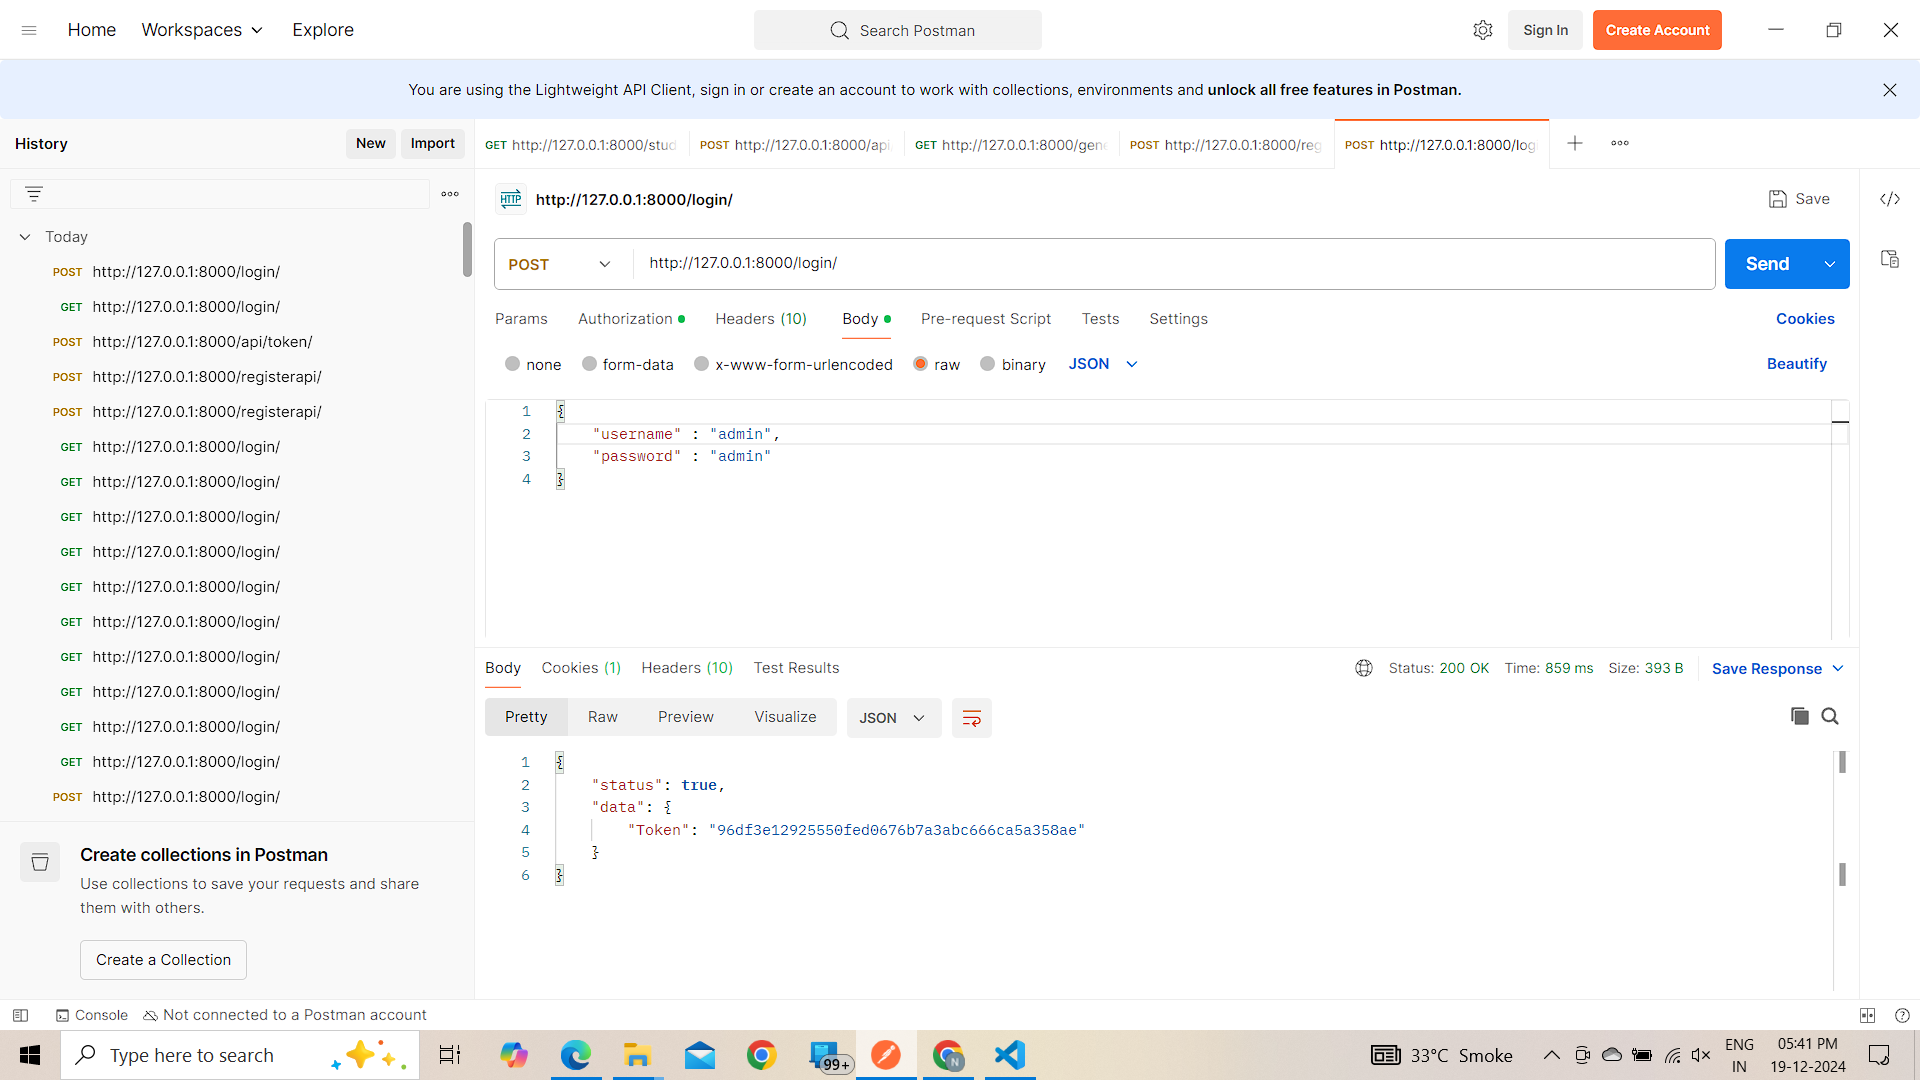
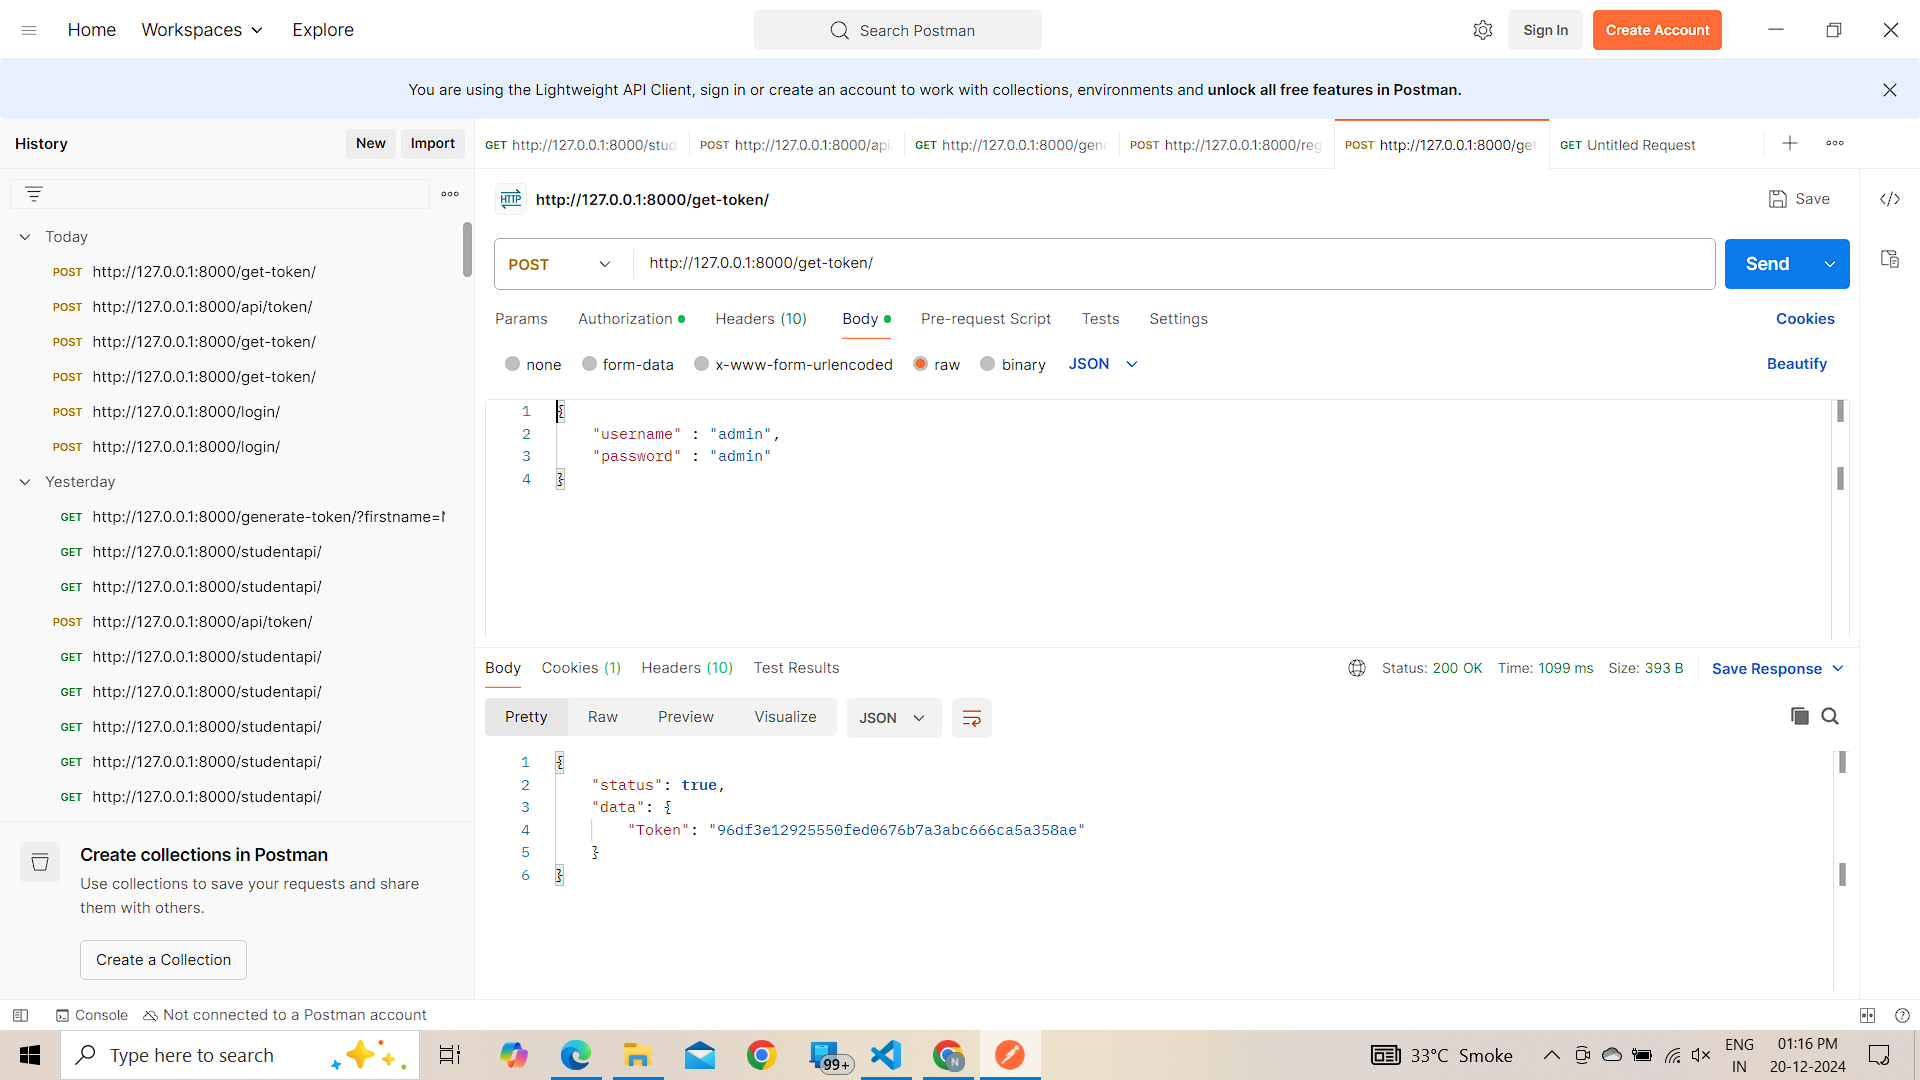
made changes

diff --git a/School/views.py b/School/views.py
@@ -59,42 +59,6 @@ def registration(request):
     
     return render(request,'school/register.html',{'form':form})
 
-#User Registration Using API Call (Postman)
-class RegisterView(APIView):
-    def post(self, request):
-        data = request.data
-        serializer = RegisterSerializer(data=data)
-        
-        if serializer.is_valid():
-            
-            username = serializer.data.get('username',False)
-            password = serializer.data.get('password',False)
-            confirm_password = serializer.data.get('confirm_password',False)
-
-            user = authenticate(username=username, password = password)
-            if user:
-                return Response({
-                    "status" : True,
-                    "message" : "Username already exist please login or enter different username",
-                    "data" : {} 
-                })
-
-            if password == confirm_password:
-                user = User.objects.create_user(username = username, password = password)
-                user.save()
-
-                refresh = RefreshToken.for_user(user)
-                return Response({
-                    'refresh': str(refresh),
-                    'access': str(refresh.access_token),
-                })        
-        
-        return Response({
-            'status' : True,
-            'message' : 'Something Wrong',
-            'data' : serializer.errors
-        })
-
 
 #Session Authentication
 def log_in(request):
@@ -147,6 +111,41 @@ def log_out(request):
     logout(request)
     return redirect("log_in")
 
+#User Registration Using API Call (Postman)
+class RegisterView(APIView):
+    def post(self, request):
+        data = request.data
+        serializer = RegisterSerializer(data=data)
+        
+        if serializer.is_valid():
+            
+            username = serializer.data.get('username',False)
+            password = serializer.data.get('password',False)
+            confirm_password = serializer.data.get('confirm_password',False)
+
+            user = authenticate(username=username, password = password)
+            if user:
+                return Response({
+                    "status" : True,
+                    "message" : "Username already exist please login or enter different username",
+                    "data" : {} 
+                })
+
+            if password == confirm_password:
+                user = User.objects.create_user(username = username, password = password)
+                user.save()
+
+                refresh = RefreshToken.for_user(user)
+                return Response({
+                    'refresh': str(refresh),
+                    'access': str(refresh.access_token),
+                })        
+        
+        return Response({
+            'status' : True,
+            'message' : 'Something Wrong',
+            'data' : serializer.errors
+        })
 
 #Fetch Data Using Authentication(Token Authentication/ JWT Token Authentication)
 class StudentApi(APIView):
@@ -166,8 +165,7 @@ class StudentApi(APIView):
 
     
 #Code To generate or get Token
-class LoginView(APIView):
-
+class GetTokenView(APIView):
     def post(self,request):
         data = request.data
         serializer = LoginSerializer(data=data)

diff --git a/AuthApplication/urls.py b/AuthApplication/urls.py
@@ -11,9 +11,9 @@ urlpatterns = [
     # path('accounts/',include('django.contrib.auth.urls')),
     # path('accounts/',include('School.urls')),
     path('studentapi/',views.StudentApi.as_view(), name='StudentApi'),
-    path('login/',views.LoginView.as_view(), name='login'),
-    path('',views.log_in, name='log_in'),
-    path('',include('School.urls')),
+    path('get-token/',views.GetTokenView.as_view(), name='login'),
+    path('login/',views.log_in, name='log_in'),
+    # path('',include('School.urls')),
     path('registration/',views.registration, name='register'),
     path('registerapi/',views.RegisterView.as_view(), name='registerapi'),
     # path('dashboard/',views.DashboardView.as_view(), name='dashboard'),

diff --git a/README.md b/README.md
@@ -75,7 +75,7 @@ In that section, We try to generate a Token using API Call. We are creating a To
 <br>
 1. After setting django project you need to <b>create super user</b>. After that if you don't create a token for admin so don't worry we can generate the token either login admin panel or using API Call. But you want the another user token to generate the admin token.
 2. So do <b>User registration using api call (postman)</b> then you got <b>JWT Token</b>.
-3. After that go to postman and paste the url of login api(login/) and select POST method.
+3. After that go to postman and paste the url of get token api(get-token/) and select POST method.
 4. After that go to the Authorization and select <b>Bearer Token</b> and <b>pass the access key</b> in given field.
 5. Then goto the body section and select raw option and select JSON Type and write the <b>username, password</b> in JSON Format and hit the api, You are successfully get newly created Token or get existed Token.
 
